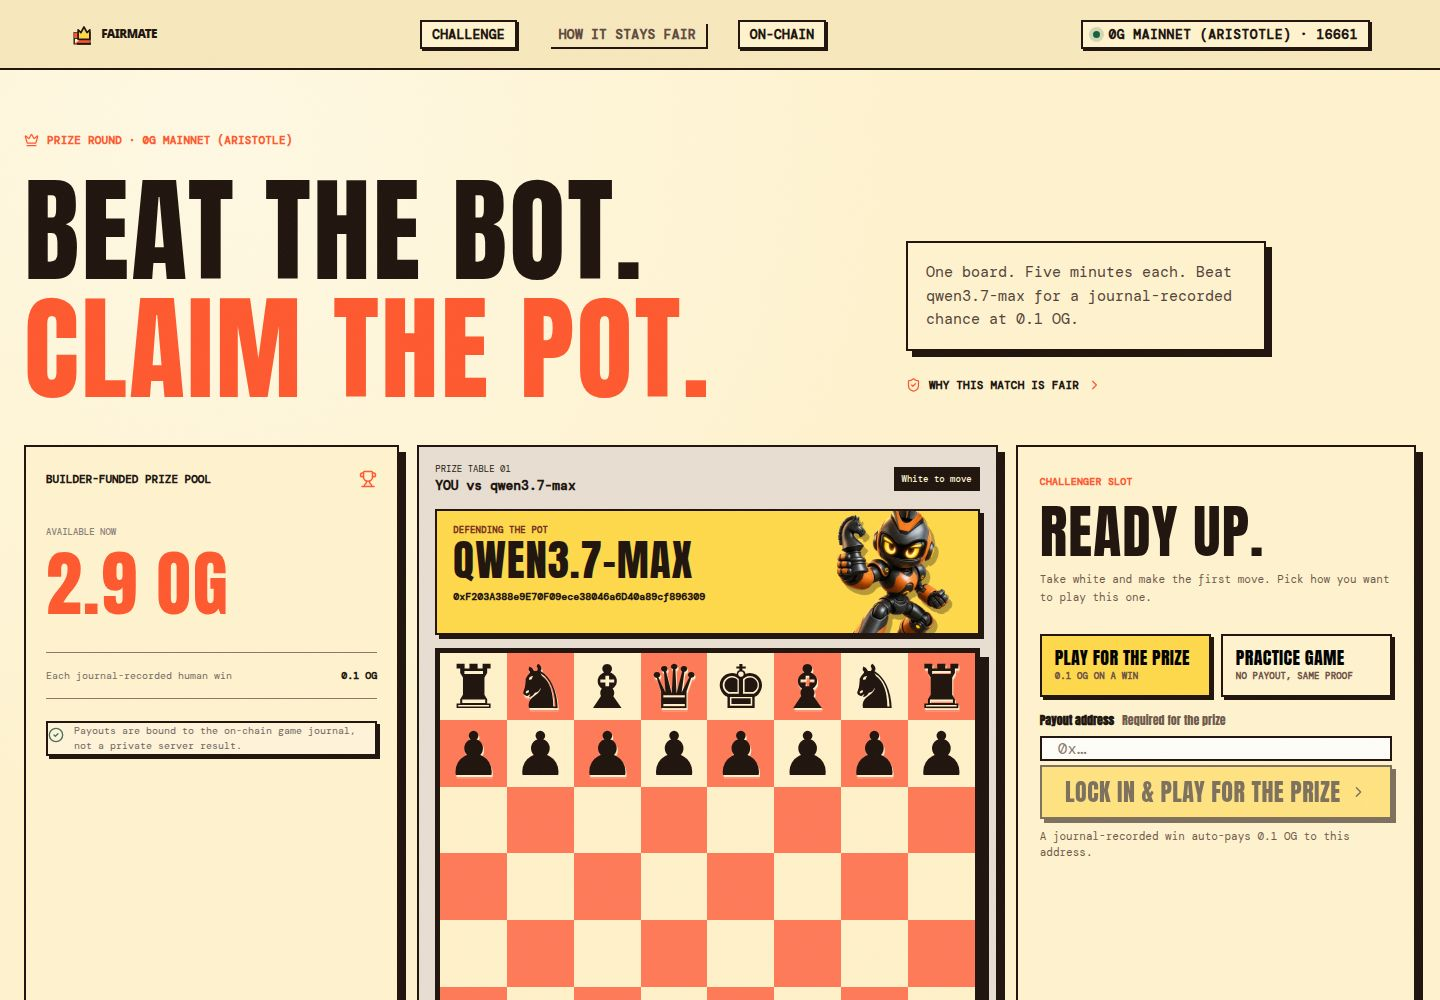
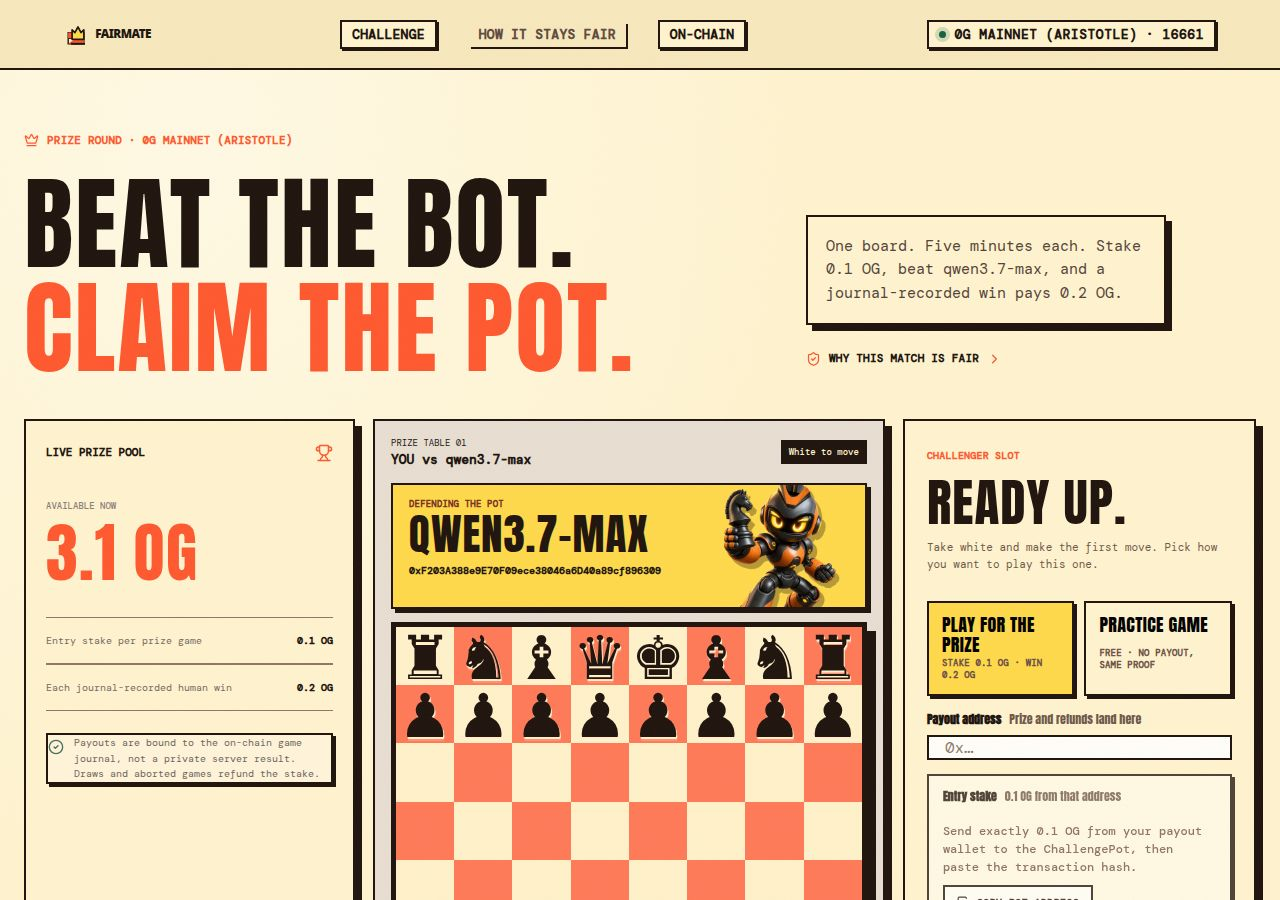
docs: refresh product screenshots with current stake economics

diff --git a/app/preview.tsx b/app/preview.tsx
@@ -145,7 +145,7 @@ function fixture(phase: string): { game: GameState; pendingAction: "move" | "res
       game.endReason = "qwen3.7-max ran out of time";
       game.clock = { ...game.clock, playerMs: 61_000, modelMs: 0, active: null, activeSince: null };
       game.endTx = { status: "confirmed", txHash: FAKE_HASH, blockNumber: 12_345_999 };
-      game.awardTx = { status: "confirmed", txHash: FAKE_HASH, blockNumber: 12_346_000, amountOg: "0.1" };
+      game.awardTx = { status: "confirmed", txHash: FAKE_HASH, blockNumber: 12_346_000, amountOg: "0.2" };
       return { game, pendingAction: null };
     }
     case "loss": {

diff --git a/README.md b/README.md
@@ -6,6 +6,8 @@ FairMate is human-versus-AI 5+0 chess for the 0G Bridge Wave 3 hackathon. You pl
 
 Entry to a prize game is a `0.1 OG` stake into the ChallengePot. A journal-recorded win pays `0.2 OG` back, your stake plus a `0.1 OG` bounty. A draw or aborted game refunds the stake automatically. A loss leaves it in the pot. Practice games are free.
 
+<img src="screenshots/lobby.jpg" width="100%" alt="FairMate prize lobby: live 3.1 OG pot, 0.1 OG entry stake, 0.2 OG win payout, qwen3.7-max defending the pot">
+
 ## The claim, decomposed exactly
 
 | Claim | Mechanism | Who checks it |
@@ -17,6 +19,8 @@ Entry to a prize game is a `0.1 OG` stake into the ChallengePot. A journal-recor
 | *What remains trusted* | The referee server controls the clock, determines the result with `chess.js`, and submits transactions | The full SAN/FEN line and timestamps are downloadable; a conflicting record is auditable |
 
 > **Verification boundary:** 0G Router does not expose the raw provider signature for its TeeTLS path. FairMate therefore never claims browser-side signature recovery in Router mode. The browser verifies every exposed byte/hash/trace/commitment property and displays 0G Router as the explicit TeeTLS trust boundary.
+
+<img src="screenshots/verified-move.jpg" width="100%" alt="FairMate match screen: qwen3.7-max thinking with TeeTLS-verified inference burning its clock and journal anchoring in the background">
 
 ## Verify before you trust
 
@@ -90,6 +94,8 @@ Production also fails closed unless Router reports the exact pinned model/provid
 | Production pot after payout | **2.9 OG** |
 
 The full game contains 31 plies with exact Router evidence for every Qwen move. `pnpm run verify -- --network=mainnet` completed with **604/604 checks passed** (including the live refund drill).
+
+<img src="screenshots/payout.jpg" width="100%" alt="FairMate victory screen: confirmed 0.2 OG award with journal-recorded result and award transactions">
 
 ### Evidence-derived budget reconciliation
 
@@ -197,9 +203,8 @@ The browser recomputes request/response hashes, validates trace consistency, con
 - **2026-08-23:** architecture migrated to Aristotle Mainnet + Qwen 3.7 Max through 0G Router with explicit TeeTLS trust semantics, price pins, cost accounting and fail-closed tests
 - **2026-08-23:** Aristotle contracts funded and configured; Router Payment Vault funded; full 31-ply sample paid `0.1 OG`; **581/581** mainnet evidence checks passed
 - **2026-08-24:** Entry-stake era: prize games stake `0.1 OG`, wins pay `0.2 OG` (stake back + bounty), draws and aborts auto-refund via `defund` ([config tx](https://chainscan.0g.ai/tx/0xb003262c859843271b44581dbbe6b140b4045778f7dbaf1353604a244d3d0226))
-- **2026-08-24:** Refund path proven live: a staked production game was abandoned, auto-aborted and refunded `0.1 OG` on Mainnet ([refund tx](https://chainscan.0g.ai/tx/0x39788429d01bf77434dc80f21ed3963872f0114ed14be76ffb9f3f3c4db85c80))
 - **2026-08-24:** Fairness hardening: zero-move games abort with a refund instead of settling as silent losses, resign-before-move refunds too, binding-clock rules disclosed in the lobby and warned on tab close, evidence download auto-unlocks after chain sync, full adversarial [threat model](docs/THREAT-MODEL.md) published
-
+- **2026-08-24:** Refund path proven live: a staked production game was abandoned, auto-aborted and refunded `0.1 OG` on Mainnet ([refund tx](https://chainscan.0g.ai/tx/0x39788429d01bf77434dc80f21ed3963872f0114ed14be76ffb9f3f3c4db85c80))
 ## Scripts
 
 | Command | Purpose |
